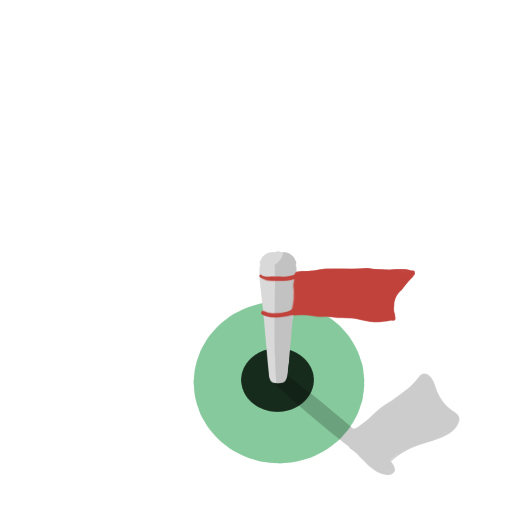
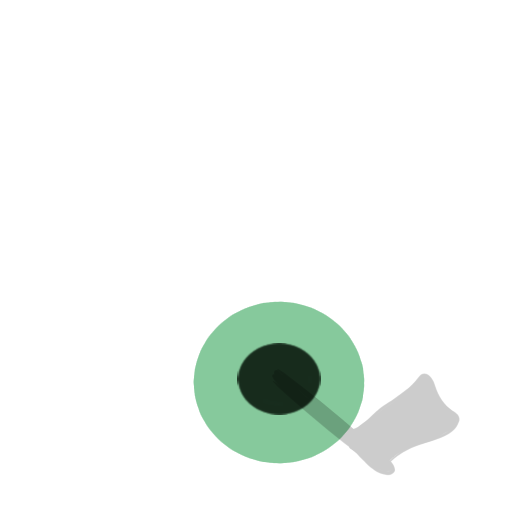
Some levels, and stuff

Changed region(s): [[0.4375, 0.4688, 0.8125, 0.8125]]

diff --git a/playHole.js b/playHole.js
@@ -365,9 +365,9 @@ function runHole() {
   world.step(1 / 60);
 
   let dx = hole.hole.x + 0.5 - ball.c_position.c.x;
-  let dy = hole.hole.y + 0.45 - ball.c_position.c.y;
+  let dy = hole.hole.y + 0.5 - ball.c_position.c.y;
   let dist = Math.sqrt(dx * dx + dy * dy);
-  if(dist < 0.1) {
+  if(dist < 0.17) {
     nextLevel();
   }
   if(contactLag-- < 0 && ball.m_contactList && ball.m_contactList.contact.v_points.length > 0) {
@@ -605,6 +605,14 @@ function debugBodies(x, y, m) {
       ctx.setTransform();
     }
   }
+  ctx.strokeStyle = '#0f0';
+
+  ctx.beginPath();
+  ctx.arc(
+    (hole.hole.x+0.5) * m + x,
+    (hole.hole.y+0.5) * m + y,
+    0.17 * m, 0, 2 * Math.PI);
+  ctx.stroke();
 }
 
 function drawHole(x, y, w, h) {
@@ -632,16 +640,34 @@ function drawHole(x, y, w, h) {
       ];
 
       let mx = Math.max(Math.max(...bits), 1);
-      if(ON === 0) {
-        bits = bits.map(a => a !== 0 ? 1 : 0);
-        bits.unshift(j % 2);
-        drawTile(fairwayAssets[parseInt(bits.join(''), 2) + (i % 2 ? 32 : 0)], x, y, w / 2, h / 2, i, j);
-        continue;
-      } else if(mx > 1) {
-        bits = bits.map(a => a !== mx ? 1 : 0);
-      }
+      let resolved = false;
 
-      bits.unshift(j % 2);
+      switch(bits+','+i%2){
+        case '3,2,3,2,1':
+        case '1,2,3,2,1':
+        case '3,2,1,2,1':
+          bits = [1,0,1,0];
+          mx=2;
+          resolved = true;
+        break;
+        case '2,3,3,2,1':
+          bits = [0,1,1,0];
+          mx=2;
+          resolved = true;
+        break;
+      }
+      if(!resolved){
+        if(ON === 0) {
+          bits = bits.map(a => a !== 0 ? 1 : 0);
+          bits.unshift(j % 2);
+          drawTile(fairwayAssets[parseInt(bits.join(''), 2) + (i % 2 ? 32 : 0)], x, y, w / 2, h / 2, i, j);
+          continue;
+        } else if(mx > 1) {
+          bits = bits.map(a => a !== mx ? 1 : 0);
+        }
+
+        bits.unshift(j % 2);
+      }
 
       if(fairwayAssets[parseInt(bits.join(''), 2) + (i % 2 ? 32 : 0) + (mx - 1) * 64]) {
         drawTile(fairwayAssets[parseInt(bits.join(''), 2) + (i % 2 ? 32 : 0) + (mx - 1) * 64], x, y, w / 2, h / 2, i, j);
@@ -655,6 +681,10 @@ function drawHole(x, y, w, h) {
           ctx.font=(0.25*(w/W)>>0)+'px monospace';
           ctx.fillText(V%64,x+w/W/2*(i+0.5),y+h/H/2*(j+0.6));
         }/**/
+        //ctx.fillStyle='#fff';
+        //ctx.textAlign='center';
+        //ctx.font=(0.25*(w/W)>>0)+'px monospace';
+        //ctx.fillText(resolved?1:0,x+w/W/2*(i+0.5),y+h/H/2*(j+0.6));
       }
     }
   }
@@ -666,8 +696,8 @@ function drawHole(x, y, w, h) {
   ctx.fillText(shown.map((a,b)=>a||!fairwayAssets[b]||fairwayAssets[b].img===grass?'':b+',').join(''),20,y+h+w/W/2);/**/
 
   ctx.drawImage(flag,
-    x + w / W * (hole.hole.x - 0.5) >> 0,
-    y + h / H * (hole.hole.y - 1) >> 0,
+    x + w / W * (hole.hole.x - 0.58) >> 0,
+    y + h / H * (hole.hole.y - 0.98) >> 0,
     (x + w / W * (hole.hole.x + 1) >> 0) - (x + w / W * (hole.hole.x - 1) >> 0),
     (y + h / H * (hole.hole.y + 1) >> 0) - (y + h / H * (hole.hole.y - 1) >> 0));
 
@@ -699,6 +729,12 @@ function drawHole(x, y, w, h) {
       }
     }
   }
+
+  ctx.drawImage(flagPole,
+    x + w / W * (hole.hole.x - 0.58) >> 0,
+    y + h / H * (hole.hole.y - 0.98) >> 0,
+    (x + w / W * (hole.hole.x + 1) >> 0) - (x + w / W * (hole.hole.x - 1) >> 0),
+    (y + h / H * (hole.hole.y + 1) >> 0) - (y + h / H * (hole.hole.y - 1) >> 0));
 
   if(dev) {
     debugBodies(x, y, w / W);

diff --git a/holes.js b/holes.js
@@ -1,31 +1,30 @@
 let holes = [
   [],
-  [
-    {
-      tee: { x: 1.5, y: 2 },
+  [{
+      tee: { x: 0, y: 2 },
       hole: { x: 7, y: 2 },
       fairway: [
-        [1, 1, 1, 1, 1, 1, 1, 1, 1],
-        [0, 0, 0, 0, 0, 0, 0, 0, 0],
-        [1, 1, 1, 1, 1, 1, 1, 1, 1],
-        [0, 0, 0, 0, 0, 0, 0, 0, 0],
-        [1, 1, 1, 1, 1, 1, 1, 1, 1],
+        [1, 1, 1, 1, 1, 1, 1, 1],
+        [0, 0, 0, 0, 0, 0, 0, 0],
+        [1, 1, 1, 1, 1, 1, 1, 1],
+        [0, 0, 0, 0, 0, 0, 0, 0],
+        [1, 1, 1, 1, 1, 1, 1, 1],
       ],
       machines: [{
           type: "piston",
           variety: "square",
           rotation: 0.25,
-          power: 1,
-          x: 0.5,
+          x: -0.5,
           y: 2
         },
         {
           type: "gate",
           rotation: 0,
           active: true,
-          x: 6,
-          y: 2
+          x: 6.5,
+          y: 2,
         },
+
       ],
       par: 3,
       best: 0
@@ -35,16 +34,17 @@ let holes = [
       hole: { x: 5, y: 1 },
       fairway: [
         [1, 1, 1, 1, 1, 1, 1, 1],
-        [1, 1, 1, 1, 1, 1, 1, 1],
+        [1, 2, 2, 1, 1, 1, 3, 1],
         [1, 1, 1, 1, 1, 1, 3, 1],
         [1, 0, 0, 1, 0, 0, 3, 1],
         [1, 0, 0, 0, 0, 0, 1, 1],
+        [1, 1, 1, 1, 1, 1, 1, 1],
       ],
       machines: [{
           type: "piston",
           variety: "square",
           rotation: 0.25,
-          power:2,
+          power: 2,
           x: 0,
           y: 2
         }, {
@@ -69,6 +69,75 @@ let holes = [
       ],
       par: 3,
       best: 0
+    },
+    {
+      tee: { "x": 2, "y": 4.8 },
+      hole: { "x": 0.1, "y": 3.9 },
+      fairway: [
+        [1, 1, 1, 1, 1, 1, 1, 1, 1, 1, 1],
+        [1, 0, 0, 0, 1, 0, 0, 1, 1, 3, 1],
+        [0, 0, 1, 1, 1, 0, 1, 1, 1, 3, 1],
+        [1, 1, 1, 1, 1, 1, 1, 1, 1, 3, 1],
+        [1, 1, 1, 1, 1, 1, 1, 1, 1, 3, 1],
+        [1, 1, 1, 1, 1, 1, 1, 2, 2, 3, 1],
+        [1, 1, 1, 1, 1, 1, 2, 2, 2, 3, 1],
+        [1, 1, 1, 1, 1, 1, 1, 1, 1, 1, 1],
+      ],
+      machines: [
+        {
+          "type": "piston",
+          "variety": "left-angle",
+          "rotation": 0,
+          "power": 1.7,
+          "x": 2,
+          "y": 6
+        },
+        {
+          "type": "piston",
+          "variety": "square",
+          "rotation": 0.5,
+          "power": 1.7,
+          "x": 4,
+          "y": 1
+        }, {
+          "type": "piston",
+          "variety": "square",
+          "rotation": 0.05,
+          "power": 1.7,
+          "x": 4.5,
+          "y": 6
+        }, {
+          "type": "piston",
+          "variety": "square",
+          "rotation": 0.48,
+          "power": 1.7,
+          "x": 7,
+          "y": 1
+        }, {
+          "type": "wedge",
+          "variety": "left-angle",
+          "rotation": 0.75,
+          "power": 2,
+          "x": 8,
+          "y": 4
+        }, {
+          "type": "wedge",
+          "variety": "left-angle",
+          "rotation": 0,
+          "power": 2,
+          "x": 0.2,
+          "y": 4.3
+        }, {
+          "type": "wedge",
+          "variety": "left-angle",
+          "rotation": 0.25,
+          "power": 2,
+          "x": 0.2,
+          "y": 3.3
+        }
+      ],
+      "par": 3,
+      "best": 0
     },
     {
       tee: { x: 4, y: 3 },

diff --git a/assetsList.js b/assetsList.js
@@ -205,6 +205,9 @@ pistonBlockShadow.src = 'assets/pistonBoxShadow.png';
 const flag = new Image();
 flag.src = 'assets/flag.png';
 
+const flagPole = new Image();
+flagPole.src = 'assets/flagPole.png';
+
 const fairway = new Image();
 fairway.src = 'assets/fairway.png';
 

diff --git a/game.js b/game.js
@@ -1,5 +1,5 @@
-let dev = true;
-let version = "0.0.6";
+let dev = false;
+let version = "0.0.7";
 
 const colors = ["white", "grey", "#151515", "white", "blue"];
 
